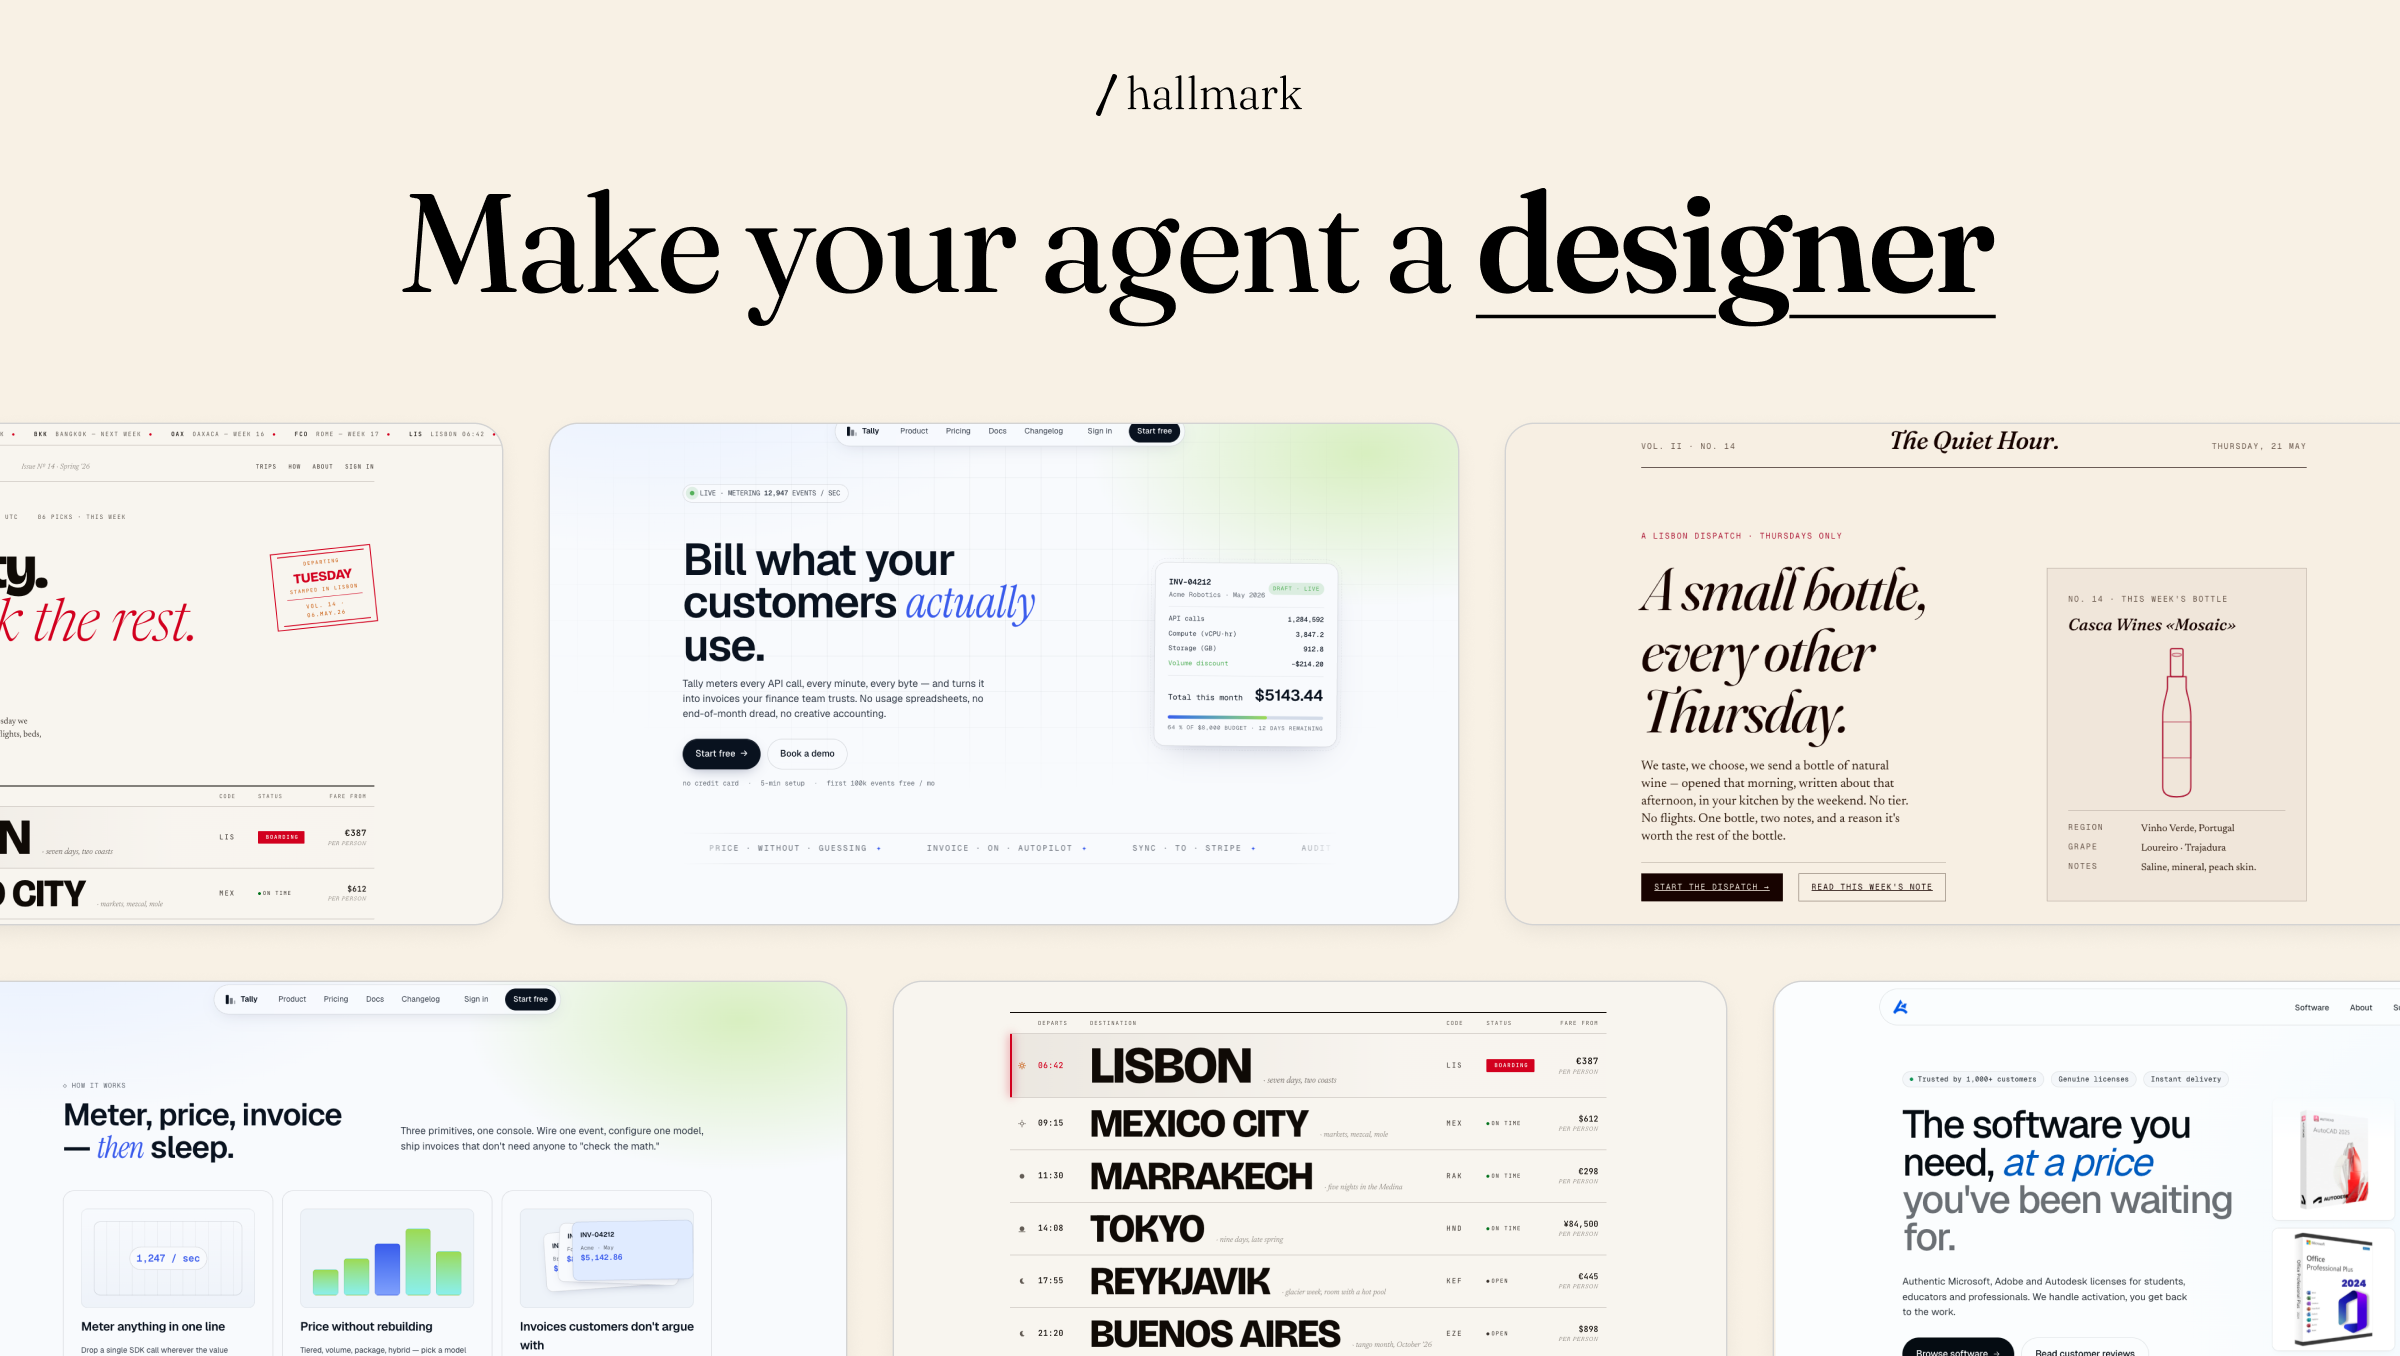
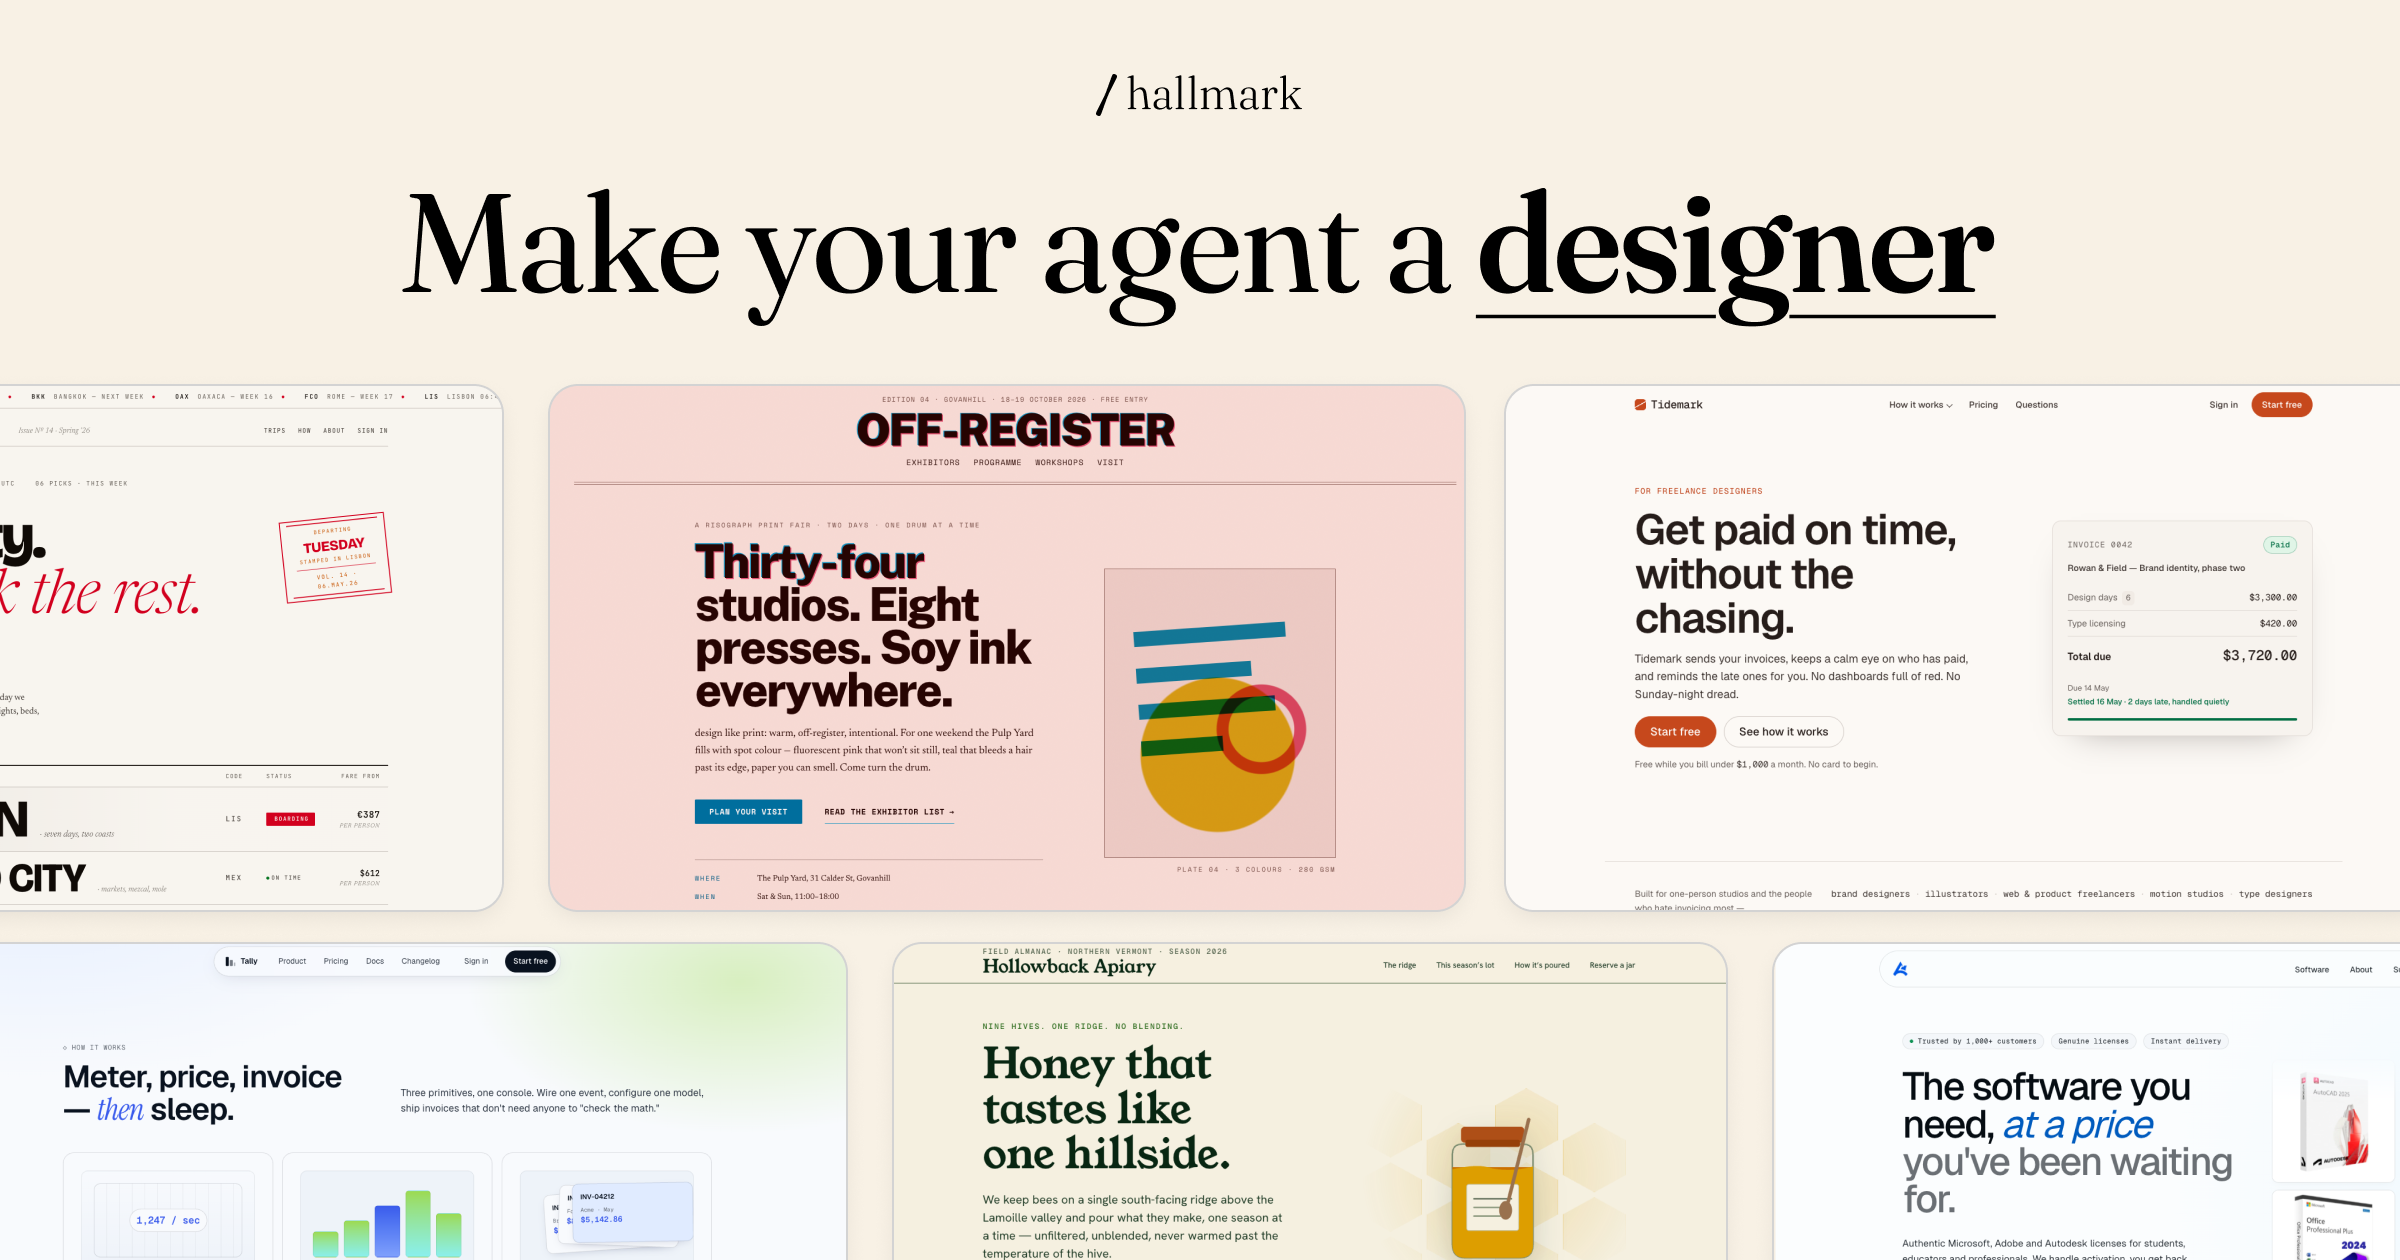
New OG image and a refreshed README example gallery
Swapped in the new Open Graph image (2400x1260), keeping the OG-hallmark.png
filename so the meta tags, the README banner, and the deployed URL all stay
valid; updated the height meta to match.

Refreshed the "Different briefs, different shapes" gallery to the worked
examples we actually ship now: the four new themes (Bubble, Distil, Cold Snap,
Cinder), the Custom and newly generated pages (Mend Assembly, Hollowback Apiary,
Off-Register, Press Quaternary), and four originals (Tally, Wayfare, NAJM,
Hyperlane). Dropped the retired examples, reworded the intro, and added eight
new hero shots.

diff --git a/site/index.html b/site/index.html
@@ -19,7 +19,7 @@
   <meta property="og:image:secure_url" content="https://www.usehallmark.com/OG-hallmark.png" />
   <meta property="og:image:type" content="image/png" />
   <meta property="og:image:width" content="2400" />
-  <meta property="og:image:height" content="1356" />
+  <meta property="og:image:height" content="1260" />
   <meta property="og:image:alt" content="Hallmark — A design skill that refuses to look AI-generated" />
   <meta name="twitter:card" content="summary_large_image" />
   <meta name="twitter:title" content="Hallmark — A design skill that refuses to look AI-generated" />

diff --git a/README.md b/README.md
@@ -27,31 +27,43 @@ Hallmark picks a macrostructure for the brief, dresses it in one of twenty theme
 
 ## Different briefs, different shapes
 
-Each generated by exercising the skill on a different brief. The skill picks differently every time. No two share a macrostructure or theme.
+Each generated from a different brief. The skill picks the theme, structure, and craft to fit each one, not from a template.
 
 <table>
   <tr>
-    <td width="25%"><a href="https://www.usehallmark.com/examples/tally/"><img src="docs/screenshots/hero-tally.jpg" alt="Tally SaaS product page hero" /></a></td>
-    <td width="25%"><a href="https://www.usehallmark.com/examples/wayfare/"><img src="docs/screenshots/hero-wayfare.jpg" alt="Wayfare travel booking hero" /></a></td>
-    <td width="25%"><a href="https://www.usehallmark.com/_tests/09-slow-pour/"><img src="docs/screenshots/hero-slow-pour.jpg" alt="Slow Pour coffee subscription hero" /></a></td>
-    <td width="25%"><a href="https://www.usehallmark.com/examples/bananastudio/"><img src="docs/screenshots/hero-bananastudio.jpg" alt="BananaStudio creative studio hero" /></a></td>
+    <td width="25%"><a href="https://www.usehallmark.com/examples/hum-07/"><img src="docs/screenshots/hero-hum-07.jpg" alt="Bubble guided sourdough app hero" /></a></td>
+    <td width="25%"><a href="https://www.usehallmark.com/examples/cobalt-01/"><img src="docs/screenshots/hero-cobalt-01.jpg" alt="Distil content-extraction API hero" /></a></td>
+    <td width="25%"><a href="https://www.usehallmark.com/examples/carnival-01/"><img src="docs/screenshots/hero-carnival-01.jpg" alt="Cold Snap record-label EP hero" /></a></td>
+    <td width="25%"><a href="https://www.usehallmark.com/examples/lumen-01/"><img src="docs/screenshots/hero-lumen-01.jpg" alt="Cinder AI reasoning tool hero" /></a></td>
+  </tr>
+  <tr>
+    <td><b>Bubble</b><br/><sub>Sourdough app · Hum</sub></td>
+    <td><b>Distil</b><br/><sub>Extraction API · Cobalt</sub></td>
+    <td><b>Cold Snap</b><br/><sub>Record label · Carnival</sub></td>
+    <td><b>Cinder</b><br/><sub>AI tool · Lumen</sub></td>
+  </tr>
+  <tr>
+    <td><a href="https://www.usehallmark.com/examples/custom-04/"><img src="docs/screenshots/hero-custom-04.jpg" alt="Mend Assembly repair-cafe manifesto hero" /></a></td>
+    <td><a href="https://www.usehallmark.com/examples/garden-01/"><img src="docs/screenshots/hero-garden-01.jpg" alt="Hollowback Apiary honey farm hero" /></a></td>
+    <td><a href="https://www.usehallmark.com/examples/riso-01/"><img src="docs/screenshots/hero-riso-01.jpg" alt="Off-Register risograph print fair hero" /></a></td>
+    <td><a href="https://www.usehallmark.com/examples/press-01/"><img src="docs/screenshots/hero-press-01.jpg" alt="Press Quaternary type studio hero" /></a></td>
+  </tr>
+  <tr>
+    <td><b>Mend Assembly</b><br/><sub>Repair café · Custom</sub></td>
+    <td><b>Hollowback Apiary</b><br/><sub>Honey farm · Garden</sub></td>
+    <td><b>Off-Register</b><br/><sub>Print fair · Riso</sub></td>
+    <td><b>Press Quaternary</b><br/><sub>Type studio · Custom</sub></td>
+  </tr>
+  <tr>
+    <td><a href="https://www.usehallmark.com/examples/tally/"><img src="docs/screenshots/hero-tally.jpg" alt="Tally SaaS product page hero" /></a></td>
+    <td><a href="https://www.usehallmark.com/examples/wayfare/"><img src="docs/screenshots/hero-wayfare.jpg" alt="Wayfare travel booking hero" /></a></td>
+    <td><a href="https://www.usehallmark.com/examples/najm/"><img src="docs/screenshots/hero-najm.jpg" alt="NAJM Moroccan fashion brand hero" /></a></td>
+    <td><a href="https://www.usehallmark.com/examples/hyperlane/"><img src="docs/screenshots/hero-hyperlane.jpg" alt="Hyperlane developer infrastructure hero" /></a></td>
   </tr>
   <tr>
     <td><b>Tally</b><br/><sub>SaaS · modern-minimal</sub></td>
     <td><b>Wayfare</b><br/><sub>Travel · atmospheric</sub></td>
-    <td><b>Slow Pour</b><br/><sub>Coffee subscription</sub></td>
-    <td><b>BananaStudio</b><br/><sub>Studio · playful</sub></td>
-  </tr>
-  <tr>
-    <td><a href="https://www.usehallmark.com/_tests/06-anya-portfolio/"><img src="docs/screenshots/hero-anya.jpg" alt="Anya Reis personal site hero" /></a></td>
-    <td><a href="https://www.usehallmark.com/examples/najm/"><img src="docs/screenshots/hero-najm.jpg" alt="NAJM Moroccan fashion brand hero" /></a></td>
-    <td><a href="https://www.usehallmark.com/_tests/11-soroe-ceramics/"><img src="docs/screenshots/hero-soroe.jpg" alt="Søroe ceramics studio hero" /></a></td>
-    <td><a href="https://www.usehallmark.com/examples/hyperlane/"><img src="docs/screenshots/hero-hyperlane.jpg" alt="Hyperlane developer infrastructure hero" /></a></td>
-  </tr>
-  <tr>
-    <td><b>Anya Reis</b><br/><sub>Personal site</sub></td>
     <td><b>NAJM</b><br/><sub>Fashion brand</sub></td>
-    <td><b>Søroe</b><br/><sub>Ceramics studio</sub></td>
     <td><b>Hyperlane</b><br/><sub>Dev infrastructure</sub></td>
   </tr>
 </table>